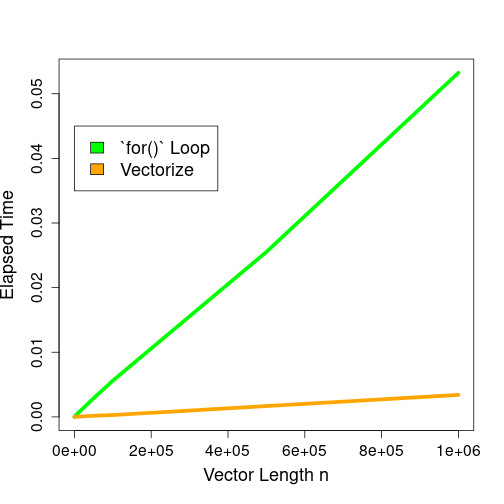
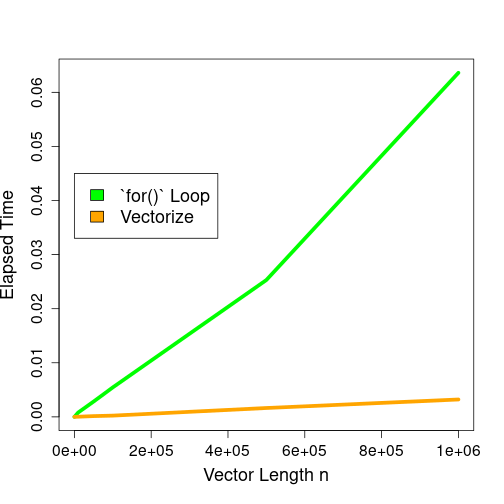
Add files via upload

diff --git a/_teaching/file_stat302/Lectures/Lecture3_Programming.html b/_teaching/file_stat302/Lectures/Lecture3_Programming.html
@@ -3,7 +3,7 @@
   <head>
     <title>STAT 302 Statistical Computing</title>
     <meta charset="utf-8" />
-    <meta name="author" content="Yikun Zhang (Autumn 2023)" />
+    <meta name="author" content="Yikun Zhang (Winter 2023)" />
     <script src="libs/header-attrs/header-attrs.js"></script>
     <link rel="stylesheet" href="uw.css" type="text/css" />
     <link rel="stylesheet" href="fonts.css" type="text/css" />
@@ -19,7 +19,7 @@ class: center, top, title-slide
 ## Lecture 3: Programming Fundamentals
 ]
 .author[
-### Yikun Zhang (<em>Autumn 2023</em>)
+### Yikun Zhang (<em>Winter 2023</em>)
 ]
 
 ---
@@ -36,7 +36,7 @@ class: center, top, title-slide
 
 3. Vectorization and `apply` Functions
 
-&lt;font size="4"&gt;* Acknowledgement: Parts of the slides are modified from the course materials by Prof. Ryan Tibshirani, Prof. Yen-Chi Chen, Prof. Deborah Nolan, Bryan Martin, and Andrea Boskovic. &lt;/font&gt;
+&lt;font size="4"&gt;* Acknowledgement: Parts of the slides are modified from the course materials by Prof. Ryan Tibshirani, Prof. Yen-Chi Chen, Prof. Deborah Nolan. &lt;/font&gt;
 
 ---
 class: inverse
@@ -275,7 +275,7 @@ In the `ifelse()` function, we specify a condition. Then, a value is returned if
 
 
 ```r
-x = c(1,2,4,5)
+x = c(1, 2, 4, 5)
 y = rep(30, 4)
 z = rep(10, 4)
 ifelse(x &gt; 3, y, z)
@@ -337,7 +337,7 @@ Thus, it is common to see that `%in%` operator appears in the conditional statem
 
 # Control Flow (Additional Example)
 
-Check if the length of a string is greater than 20 and whether its first character is `a`.
+Check if the length of a string is greater than 20 and whether its first character is "a".
 
 --
 
@@ -360,11 +360,13 @@ if ((length(x_split) &gt; 20) &amp; (x_split[1] == "a")) {
 ## x is a pretty long string!
 ```
 
+Why didn't the above code check whether its first character is "a"?
+
 ---
 
 # Control Flow (Additional Example)
 
-Check if the length of a string is greater than 20 and whether its first character is `a`.
+Check if the length of a string is greater than 20 and whether its first character is "a".
 
 
 ```r
@@ -623,7 +625,7 @@ end_time = Sys.time()
 
 
 ```
-## The total execution time of the loop with concatenation is  4.093626  seconds!
+## The total execution time of the loop with concatenation is  3.984592  seconds!
 ```
 
 ---
@@ -655,7 +657,7 @@ all(log_vec1 ==  log_vec2)
 
 
 ```
-## The total execution time of the loop without concatenation is  0.01508474  seconds!
+## The total execution time of the loop without concatenation is  0.02567053  seconds!
 ```
 
 
@@ -813,7 +815,7 @@ cat("The `for` loop implementation takes ", end_time - start_time, " seconds to 
 ```
 
 ```
-## The `for` loop implementation takes  0.004875422  seconds to execute.
+## The `for` loop implementation takes  0.005138159  seconds to execute.
 ```
 
 ---
@@ -836,7 +838,7 @@ cat("The vectorization takes ", end_time - start_time, " seconds to execute.")
 ```
 
 ```
-## The vectorization takes  0.001832247  seconds to execute.
+## The vectorization takes  0.001718998  seconds to execute.
 ```
 
 --
@@ -866,7 +868,7 @@ cat("The `for` loop implementation takes ", end_time - start_time, " seconds to 
 ```
 
 ```
-## The `for` loop implementation takes  0.01022601  seconds to execute.
+## The `for` loop implementation takes  0.01625299  seconds to execute.
 ```
 
 ---
@@ -889,7 +891,7 @@ cat("The vectorization takes ", end_time - start_time, " seconds to execute.")
 ```
 
 ```
-## The vectorization takes  0.002448559  seconds to execute.
+## The vectorization takes  0.001953602  seconds to execute.
 ```
 
 ---
@@ -1094,7 +1096,7 @@ cat("The total execution time using `apply()` is ", end_time - start_time, " sec
 ```
 
 ```
-## The total execution time using `apply()` is  0.007205248  seconds!
+## The total execution time using `apply()` is  0.005705118  seconds!
 ```
 
 Note: Here, we use our customized function in `apply()`. More details about writing our own function will be discussed in the next lecture.
@@ -1110,14 +1112,14 @@ As an example, how can we count the number of positive entries in each row of a 
 set.seed(123)
 x = matrix(rnorm(90000), 300, 300)
 start_time = Sys.time()
-# Don't do this (much slower for big matrices)
+# Using the build-in function is much faster for big matrices
 res2 = rowSums(x &gt; 0)
 end_time = Sys.time()
 cat("The total execution time of a direct computations is ", end_time - start_time, " seconds!")
 ```
 
 ```
-## The total execution time of a direct computations is  0.003755093  seconds!
+## The total execution time of a direct computations is  0.002381802  seconds!
 ```
 
 ---
@@ -1283,9 +1285,19 @@ family_df_sp[[1]]
 ```
 
 ---
-# Reminder
+# Summary
 
-Submit Lab 3 on Canvas by the end of Monday (October 23)!!
+- `if()`, `else if()`, `if() else` are standard conditionals.
+ 
+- `ifelse()` is a conditional that can vectorize.
+
+- `switch()` is handy for deciding between several options.
+
+- `for()` and `while()` loops are standard loop structures, but don't overuse them. Vectorization is faster and simpler!
+
+- The family of `apply` functions can also make our code more efficient.
+
+Submit Lab 3 on Gradescope by the end of Monday (January 29)!!
     </textarea>
 <style data-target="print-only">@media screen {.remark-slide-container{display:block;}.remark-slide-scaler{box-shadow:none;}}</style>
 <script src="https://remarkjs.com/downloads/remark-latest.min.js"></script>
